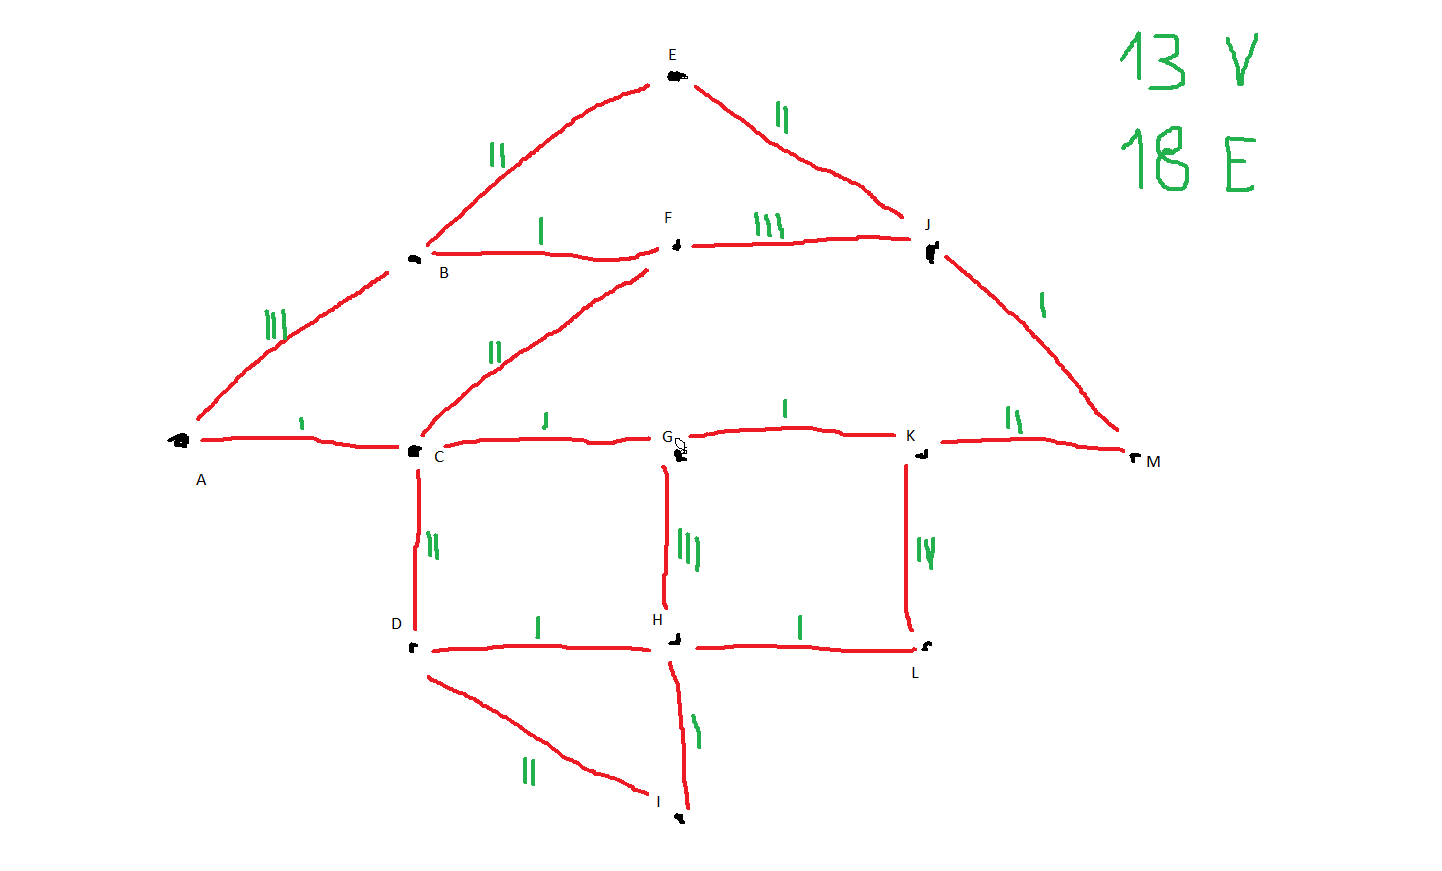
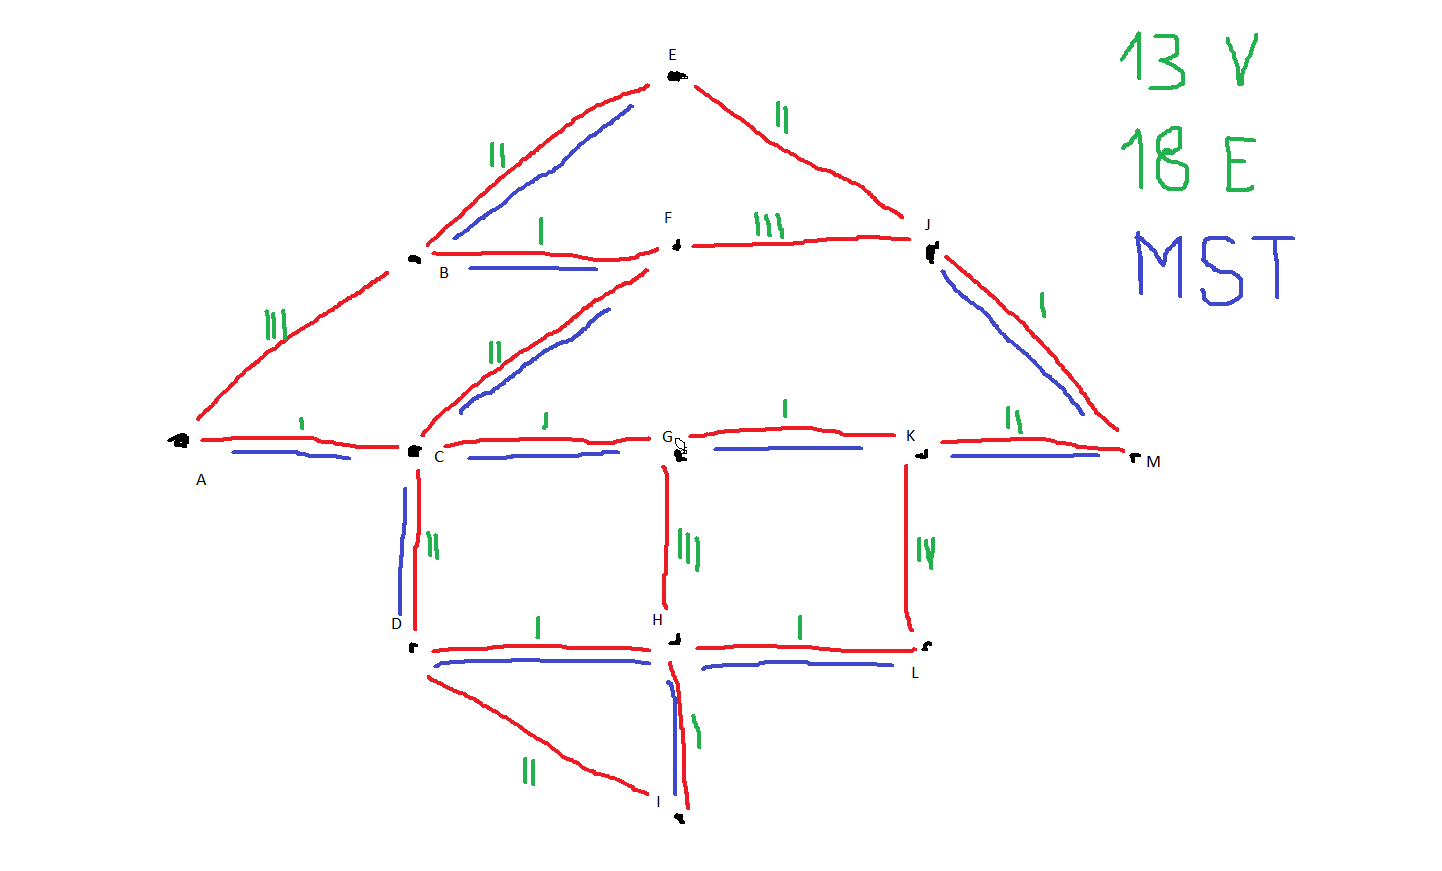
[ADD] Minimal spanning tree, Prim

diff --git a/mst_prim.cpp b/mst_prim.cpp
@@ -1,0 +1,104 @@
+
+#include <iostream>
+#include <limits>
+#include <queue>
+
+// for a given graph with positive length edges find
+// the minimal spanning tree
+
+
+// case definition
+constexpr int g_vertex_count = 13;
+using edge_t = std::pair<char, int>; 
+using graph_t = std::vector<std::vector<edge_t>>;
+using comp_t = bool(*)(const edge_t&, const edge_t&);
+using queue_t = std::priority_queue<edge_t, std::vector<edge_t>, comp_t>;
+
+// globals
+graph_t g_graph;
+int g_weight = 0;
+std::vector<edge_t> g_tree;
+std::vector<uint8_t> g_visited(g_vertex_count, 0);
+
+void add_edge(const char n1, const char n2, const int len)
+{
+    g_graph[n1 - 'A'].emplace_back(n2, len);
+    g_graph[n2 - 'A'].emplace_back(n1, len);
+}
+
+void init_graph()
+{
+    g_graph.resize(g_vertex_count);
+    add_edge('A', 'B', 3);
+    add_edge('A', 'C', 1);
+    add_edge('B', 'E', 2);
+    add_edge('B', 'F', 1);
+    add_edge('C', 'F', 2);
+    add_edge('C', 'G', 1);
+    add_edge('D', 'H', 1);
+    add_edge('C', 'D', 2);
+    add_edge('D', 'I', 2);
+    add_edge('G', 'H', 3);
+    add_edge('H', 'I', 1);
+    add_edge('E', 'J', 2);
+    add_edge('F', 'J', 3);
+    add_edge('G', 'K', 1);
+    add_edge('H', 'L', 1);
+    add_edge('K', 'L', 4);
+    add_edge('J', 'M', 1);
+    add_edge('K', 'M', 2);
+}
+
+void mst_prim(const char start)
+{
+    const comp_t comp = [](const edge_t& e1, const edge_t& e2){ return e1.second > e2.second; };
+    queue_t q(comp);
+    q.push({start, 0});
+    while (!q.empty()) {
+        const auto e = q.top();
+        q.pop();
+        if (g_visited[e.first - 'A'] == 0) {
+            g_visited[e.first - 'A'] = 1;
+            g_tree.push_back(e);
+            g_weight += e.second;
+            for (const auto& adj : g_graph[e.first - 'A'])
+                if (g_visited[adj.first - 'A'] == 0)
+                    q.push(adj);
+        }
+    }
+}
+
+int main(int argc, char* argv[])
+{
+    init_graph();
+    mst_prim('A');
+    // present result
+    if (std::any_of(g_visited.begin(), g_visited.end(), [](const auto v){ return v == 0;}))
+        printf("\nThe graph is not coherent\n");
+    else {
+        printf("\nEdges of minimal spanning tree of a weight %i:\n", g_weight);
+        for (const auto& e : g_tree)
+            printf("\t%c-%i\n", e.first, e.second);
+    }
+}
+
+/*    clang++.exe -Wall -g -std=c++17 mst_prim.cpp -o mst_prim.exe
+
+Output:
+
+Edges of minimal spanning tree of a weight 16:
+        A-0
+        C-1
+        G-1
+        K-1
+        F-2
+        B-1
+        M-2
+        J-1
+        E-2
+        D-2
+        H-1
+        I-1
+        L-1
+
+*/

diff --git a/shortest_path.cpp b/shortest_path.cpp
@@ -5,6 +5,7 @@
 
 // for a given graph with positive length edges find
 // the shortest path between two arbitrary vertexes
+// special case: minimal spanning tree on input
 
 
 // case definition
@@ -16,7 +17,7 @@ graph_t g_graph;
 std::vector<char> g_paths;
 std::vector<int> g_lengths;
 
-void add_edge(const char n1, const char n2, int len)
+void add_edge(const char n1, const char n2, const int len)
 {
     g_graph[n1 - 'A'].emplace_back(n2, len);
     g_graph[n2 - 'A'].emplace_back(n1, len);
@@ -52,7 +53,7 @@ void init_graph()
     }
 }
 
-void find_shortest_path(char start, char stop)
+void find_shortest_path(const char start, const char stop)
 {
     g_lengths[start - 'A'] = 0;
     std::deque<char> cache{start};
